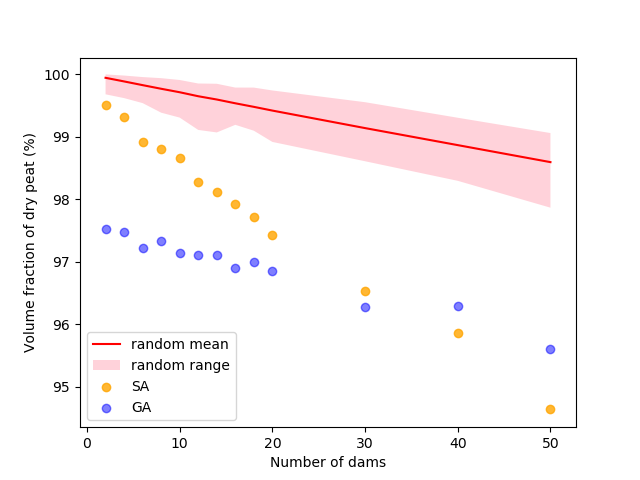
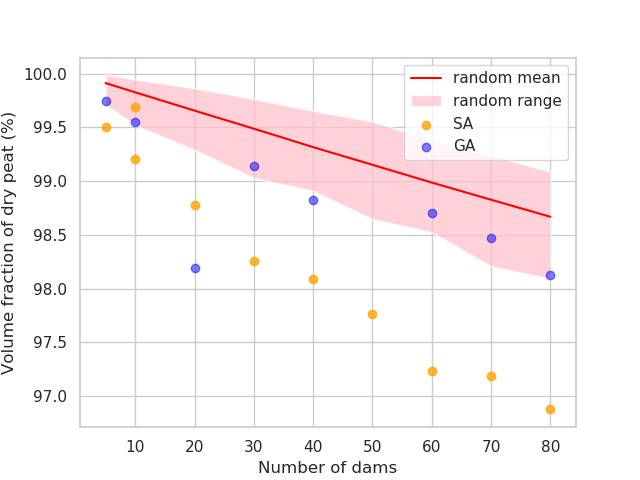
plots

diff --git a/output/plot.py b/output/plot.py
@@ -33,14 +33,16 @@ sa_df = pd.read_csv(fname_sa, delim_whitespace=True, header=None, names=colnames
  Get info out
 """
 
-dry_peat_vol_no_dams = 40191.730578848255 # normalization value
-
+#dry_peat_vol_no_dams = 40191.730578848255 # normalization value OLD
+dry_peat_vol_no_dams = 7650.495525801664 # normalization value after 3 days. 2 December
+number_dams = (5,10,20, 30, 40, 50, 60, 70, 80)
 
 mc_df = mc_df[mc_df.i != 0]
-number_dams = (2,4,6,8,10,12,14,16,18,20, 30, 40, 50)
-mean_mc = [mc_df[mc_df.ndams == i]['dry_peat_vol'].mean()/dry_peat_vol_no_dams*100 for i in number_dams]
-max_mc = [mc_df[mc_df.ndams == i]['dry_peat_vol'].max()/dry_peat_vol_no_dams*100 for i in number_dams]
-min_mc = [mc_df[mc_df.ndams == i]['dry_peat_vol'].min()/dry_peat_vol_no_dams*100 for i in number_dams]
+mc_plot_vol = mc_df[mc_df['niter']==2000]
+mc_plot_vol = mc_plot_vol[mc_plot_vol['days']==3]
+mean_mc_plot_vol = [mc_plot_vol[mc_plot_vol.ndams == i]['dry_peat_vol'].mean()/dry_peat_vol_no_dams*100 for i in number_dams]
+max_mc_plot_vol = [mc_plot_vol[mc_plot_vol.ndams == i]['dry_peat_vol'].max()/dry_peat_vol_no_dams*100 for i in number_dams]
+min_mc_plot_vol = [mc_plot_vol[mc_plot_vol.ndams == i]['dry_peat_vol'].min()/dry_peat_vol_no_dams*100 for i in number_dams]
 
 sa_df = sa_df.rename(columns=rename_cols_sa)
 sa_df.dry_peat_vol = sa_df.dry_peat_vol/dry_peat_vol_no_dams*100
@@ -48,17 +50,22 @@ sa_df.dry_peat_vol = sa_df.dry_peat_vol/dry_peat_vol_no_dams*100
 ga_df = ga_df.rename(columns=rename_cols_ga)
 ga_df.dry_peat_vol = ga_df.dry_peat_vol/dry_peat_vol_no_dams*100
 
+# slice out
+ga_df = ga_df[14:]
+sa_df = sa_df[sa_df['dry_peat_vol'] < 100]
+
+
 # Choose to plot ndams from number_dams above
 sa_plot = sa_df.loc[sa_df['ndams'].isin(number_dams)]
 ga_plot = ga_df.loc[ga_df['ndams'].isin(number_dams)]
 
 """
- Plot
+ Plot dry vs ndams
 """
 
 fig, ax = plt.subplots(1)
-ax.plot(number_dams, mean_mc, alpha=1.0, color='red', label='random mean')
-ax.fill_between(number_dams, max_mc, min_mc, facecolor='pink', alpha=0.7, label='random range')
+ax.plot(number_dams, mean_mc_plot_vol, alpha=1.0, color='red', label='random mean')
+ax.fill_between(number_dams, max_mc_plot_vol, min_mc_plot_vol, facecolor='pink', alpha=0.7, label='random range')
 ax.set_xlabel('Number of dams')
 ax.set_ylabel('Volume fraction of dry peat (%)')
 
@@ -66,15 +73,48 @@ ax.scatter(x=sa_plot.ndams.to_numpy(), y=sa_plot.dry_peat_vol.to_numpy(), label=
 ax.scatter(x=ga_plot.ndams.to_numpy(), y=ga_plot.dry_peat_vol.to_numpy(), label='GA', alpha=0.5, color='blue')
 plt.legend()
 
-fname_fig = r'results_plot.png'
-plt.savefig(fname_fig)
+#fname_fig = r'results_plot.png'
+#plt.savefig(fname_fig)
 
-plt.figure()
-sns.set(style="whitegrid", palette="pastel", color_codes=True)
+
+#sns.set(style="whitegrid", palette="pastel", color_codes=True)
 
 # Draw a nested violinplot and split the violins for easier comparison
-sns.violinplot(x=mc_df.ndams, y=mc_df.dry_peat_vol/dry_peat_vol_no_dams,  inner="quart")
+#sns.violinplot(x=mc_df.ndams, y=mc_df.dry_peat_vol/dry_peat_vol_no_dams,  inner="quart")
 
-sns.despine(left=True)
+#sns.despine(left=True)
+
+
+
+
+"""
+Plot dry vs ndays
+"""
+mc_df2 = mc_df[mc_df['niter'] == 2000]
+days = (3, 5, 10, 15, 20)
+dpv = {3: 7650.495525801664, 5: 9457.085131423835, 10: 12914.799397751349, 15:15441.81142738325, 20: 17467.949267817334} # normalization value after x days. 3 December
+
+mc_mean_dpv = []; mc_min_dpv = []; mc_max_dpv = []
+for day in sorted(dpv.iterkeys()):
+    mc_mean_dpv.append( mc_df2[mc_df2.days == day]['dry_peat_vol'].mean()/dpv[3]*100 )
+    mc_max_dpv.append( mc_df2[mc_df2.days == day]['dry_peat_vol'].max()/dpv[3]*100 )
+    mc_min_dpv.append( mc_df2[mc_df2.days == day]['dry_peat_vol'].min()/dpv[3]*100 )
+    
+#plt.figure()
+#sns.set(style="whitegrid", palette="pastel", color_codes=True)
+#sns.boxplot(x=mc_df2.days, y=mc_df2.dry_peat_vol/dpv[3])  
+    
+fig, ax = plt.subplots(1)
+ax.plot(days, mc_mean_dpv, alpha=1.0, color='red', label='random mean')
+ax.fill_between(days, mc_max_dpv, mc_min_dpv, facecolor='pink', alpha=0.7, label='random range')
+ax.set_xlabel('Number of dry days')
+ax.set_ylabel('Volume fraction of dry peat (%)')
+
+#ax.scatter(x=sa_plot.ndams.to_numpy(), y=sa_plot.dry_peat_vol.to_numpy(), label='SA', alpha=0.8, color='orange')
+
+
+
+
+
 
 plt.show()

diff --git a/main.py b/main.py
@@ -27,7 +27,7 @@ Parse command-line arguments
 parser = argparse.ArgumentParser(description='Run hydro without any optimization.')
 
 parser.add_argument('-d','--days', default=3, help='(int) Number of outermost iterations of the fipy solver, be it steadystate or transient. Default=10.', type=int)
-parser.add_argument('-b','--nblocks', default=10, help='(int) Number of blocks to locate. Default=5.', type=int)
+parser.add_argument('-b','--nblocks', default=0, help='(int) Number of blocks to locate. Default=5.', type=int)
 parser.add_argument('-n','--niter', default=1, help='(int) Number of repetitions of the whole computation. Default=10', type=int)
 args = parser.parse_args()
 
@@ -54,9 +54,9 @@ dem_rst_fn = preprocessed_datafolder + r"/DTM_metres_clip.tif"
 can_rst_fn = preprocessed_datafolder + r"/canals_clip.tif"
 #land_use_rst_fn = preprocessed_datafolder + r"/Landcover2017_clip.tif" # Not used
 peat_depth_rst_fn = preprocessed_datafolder + r"/Peattypedepth_clip.tif" # peat depth, peat type in the same raster
-#params_fn = r"/home/inaki/GitHub/dd_winrock/data/params.xlsx" # Luke
+params_fn = r"/home/inaki/GitHub/dd_winrock/data/params.xlsx" # Luke
 #params_fn = r"/home/txart/Programming/GitHub/dd_winrock/data/params.xlsx" # home
-params_fn = r"/homeappl/home/urzainqu/dd_winrock/data/params.xlsx" # CSC
+#params_fn = r"/homeappl/home/urzainqu/dd_winrock/data/params.xlsx" # CSC
 
 
 if 'CNM' and 'cr' and 'c_to_r_list' not in globals():
